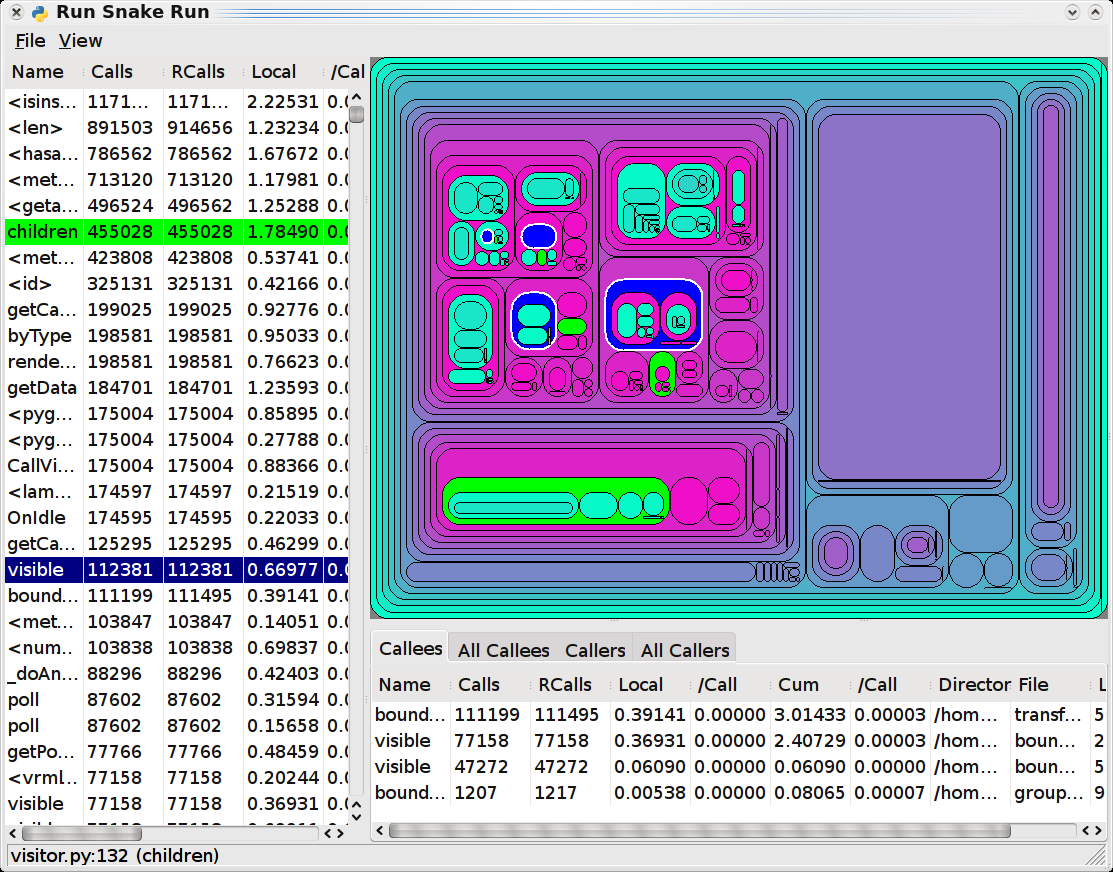
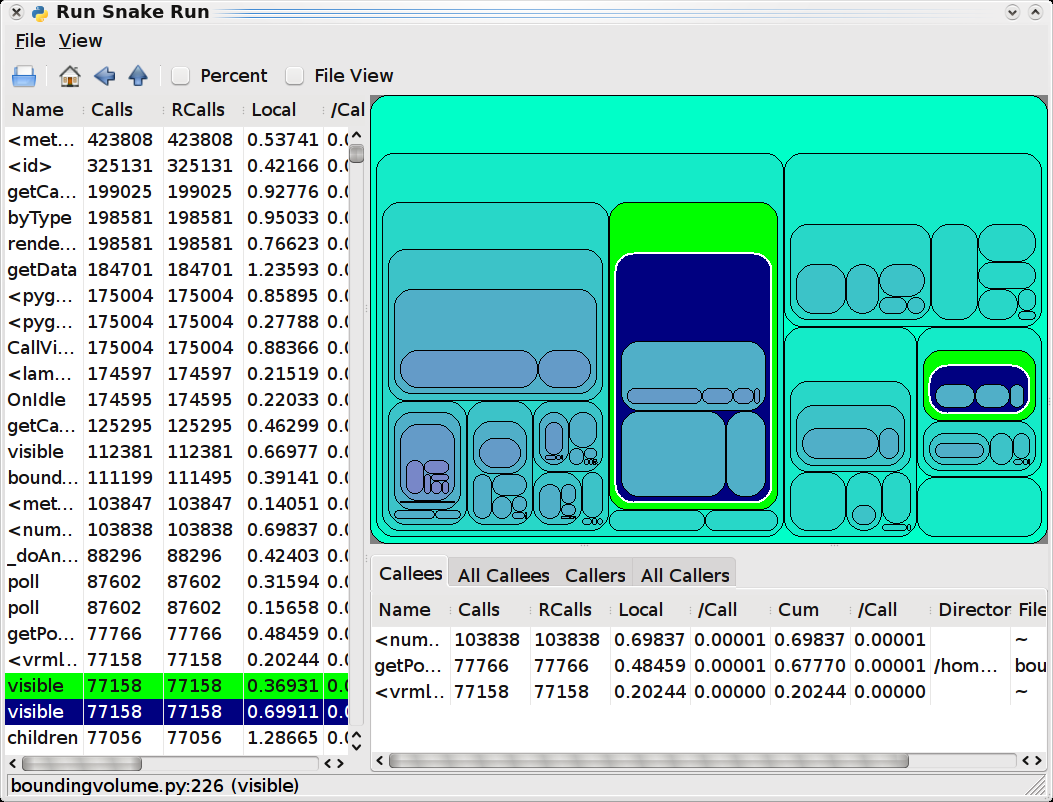
Docs updated. Screenshot updated. Hotshot references purged.

diff --git a/doc/index.html b/doc/index.html
@@ -13,18 +13,20 @@ you to view (Python) cProfile or Profile profiler dumps in a sortable
 GUI view. &nbsp;It allows you to explore the profiler information using
 a "square map" visualization or sortable tables of data.<br>
 </p>
-<h2><a name="install"></a>Installation<br>
+<h2>Features</h2><p>RunSnakeRun is a simple program, it doesn't provide
+all the bells-and-whistles of a program like KCacheGrind, it's intended
+to allow for profiling your Python programs, and just your Python
+programs. &nbsp;What it does provide:</p><ul><li>sortable data-grid views for raw profile information</li><ul><li>identity: function name, file-name, directory name</li><li>time-spent: cummulative, cummulative-per, local and local-per time</li></ul><ul><li>overall data-grid view</li><li>(all) callers-of-this-function, (all) callees-of-this-function views</li></ul><li>squaremap view of call tree</li><ul><li>size proportional to amount of time spent by the given parent in the given function</li></ul><li>squaremap view of packages/modules/functions</li><ul><li>size proportional to time spent in each package/module/function</li></ul><li>basic navigation (home, back, up)</li></ul><h2><a name="install"></a>Installation<br>
 </h2>
-<p>If you already have Python setuptools installed (a.k.a. <a href="http://peak.telecommunity.com/DevCenter/EasyInstall">easy_install</a>), you should be able to install with:</p><pre>easy_install RunSnakeRun<br>easy_install numpy<br>easy_install wxPython</pre><p>As shown, you will require a modern <a href="http://www.wxpython.org/">wxPython</a>
-and Python installation with <a href="http://numpy.scipy.org/">Numpy/Numeric</a>
-installed. &nbsp;We don't automatically install these with
+<p>If you already have Python setuptools installed (a.k.a. <a href="http://peak.telecommunity.com/DevCenter/EasyInstall">easy_install</a>), you should be able to install with:</p><pre>easy_install RunSnakeRun<br>easy_install wxPython</pre><p>As shown, you will require a modern <a href="http://www.wxpython.org/">wxPython</a>
+and Python installation. &nbsp;We don't automatically install this with
 easy_install, as that can cause problems for those who have manually
 installed the packages or who are behind corporate firewalls.</p><p>You can manually <a href="#download">download the package</a> and run:</p>
 <pre>python setup.py install</pre>
 <p>to install the package. &nbsp;This will setup a script named "runsnake" on Linux machines which launches the profiler.</p>
 <h2><a name="usage"></a>Usage</h2><p>To use cProfile to capture your application's profile data:</p><pre>import cProfile<br>command = """reactor.run()"""<br>cProfile.runctx( command, globals(), locals(), filename="OpenGLContext.profile" )</pre><p>To view the results of your run:<br>
 </p>
-<pre>python ../runsnakerun/runsnake.py test.profile<br></pre>
+<pre>python runsnake.py OpenGLContext.profile<br></pre>
 <p>There will be a brief delay as the application is created and begins
 the loading process, then you should see something like this:</p>
 <p style="text-align: center;"><img style="width: 1113px; height: 872px;" alt="Screenshot of the application viewing a HotShot profile" src="screenshot-2.0.png"><br>
@@ -37,13 +39,19 @@ between the lists and square-map views. &nbsp;You can select a
 package/module/function hierarchic view via the menus. &nbsp;You can
 also toggle use of percentage displays there.</p><h2><a name="code"></a>Code Access and Contributions</h2><p>RunSnakeRun
 is reasonably stable. &nbsp;I don't tend to do much work on it, as it
-tends to just work. &nbsp;If you have a bug, feature or idea, feel free
-to check out the code and implement the new feature. &nbsp;I'm willing
+tends to just work. &nbsp;My current wish list for the project follows:</p><ul><li>allow
+for loading-and-comparing two runs in a data-grid side-by-side with the
+equal functions next to each other (blanks for functions that don't
+exist in both runs)</li></ul><p>If you have an idea, feel free
+to check out the code and&nbsp;implement the new&nbsp;feature. &nbsp;I'm certainly willing
 to entertain new features or bug-fix requests as well. &nbsp;The code
-is available in bzr here:</p><pre>bzr branch lp:~mcfletch/runsnakerun/trunk<br>cd runsnakerun<br>python setup.py develop<br></pre><p>You can <a href="mailto:mcfletch@vrplumber.com">contact me directly</a> if you'd like to contribute.</p>
+is available in bzr here:</p><pre>bzr branch lp:~mcfletch/squaremap/trunk squaremap<br>bzr branch lp:~mcfletch/runsnakerun/trunk runsnakerun<br>cd runsnakerun<br>python setup.py develop<br></pre><p>You can <a href="mailto:mcfletch@vrplumber.com">contact me directly</a> if you'd like to contribute.</p>
 <h2><a name="download"></a>Releases/Downloads</h2>
 <ul>
-  <li>2.0.0 -- Eliminate support for Hotshot profiles, add squaremap visualization and callee/caller views</li><li><a href="RunSnakeRun-1.0.4.tar.gz">1.0.4</a> -- Add
+  <li>2.0.0a1 -- Eliminate support for (obsolete) Hotshot
+profiles, add squaremap visualization and callee/caller views, lots of
+UI work to make the application more usable, preliminary i18n work
+(just gettext markup)</li><li><a href="RunSnakeRun-1.0.4.tar.gz">1.0.4</a> -- Add
 preliminary support for standard cProfile/profile profile results, note
 that we do not load cProfile results incrementally. &nbsp;Switch to
 numpy support from Numeric. &nbsp;Use setuptools for distribution.

diff --git a/setup.py b/setup.py
@@ -15,7 +15,7 @@ if __name__ == "__main__":
 			"""Topic :: Software Development :: Libraries :: Python Modules""",
 			"""Intended Audience :: Developers""",
 		],
-		'keywords': 'hotshot,profile,gui,wxPython',
+		'keywords': 'profile,gui,wxPython,squaremap',
 		'long_description' : """GUI Viewer for Python profiling runs
 
 Provides explorability and overall visualization of the call tree
@@ -25,7 +25,7 @@ and package/module structures.""",
 	### Now the actual set up call
 	setup (
 		name = "RunSnakeRun",
-		version = '2.0.0',
+		version = '2.0.0a1',
 		url = "http://www.vrplumber.com/programming/runsnakerun/",
 		download_url = "http://www.vrplumber.com/programming/runsnakerun/",
 		description = "GUI Viewer for Python profiling runs",
